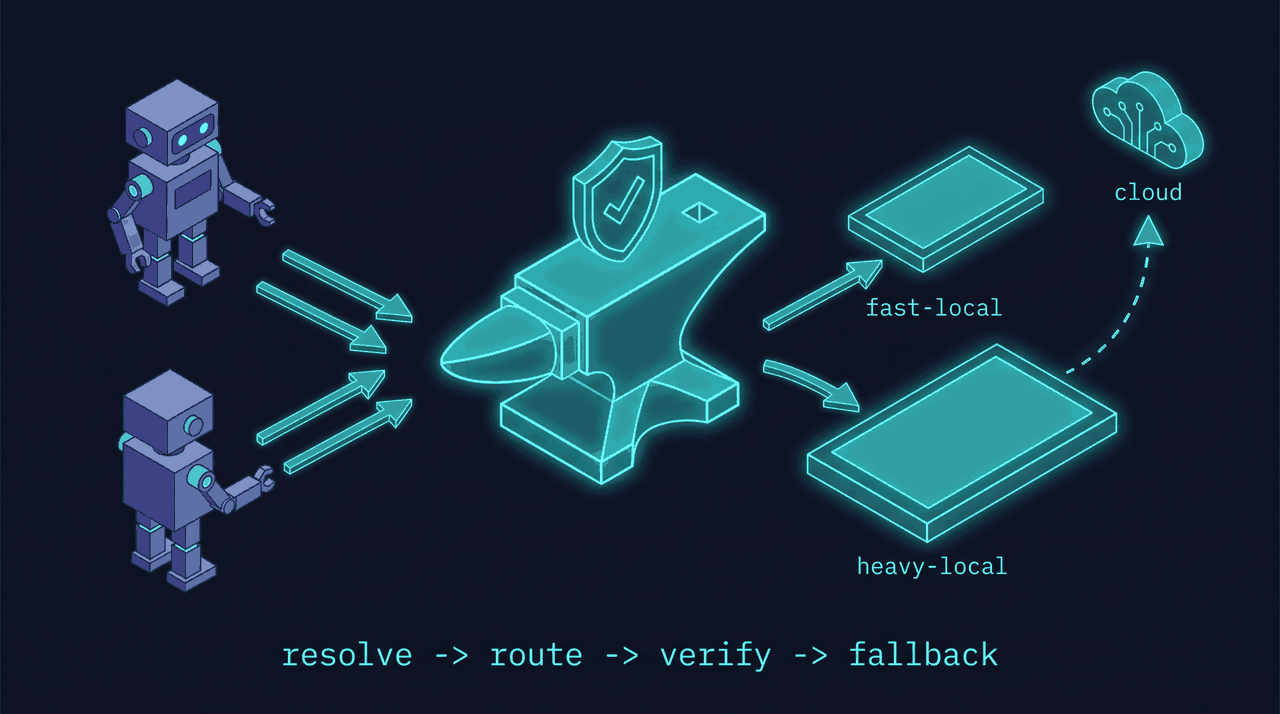
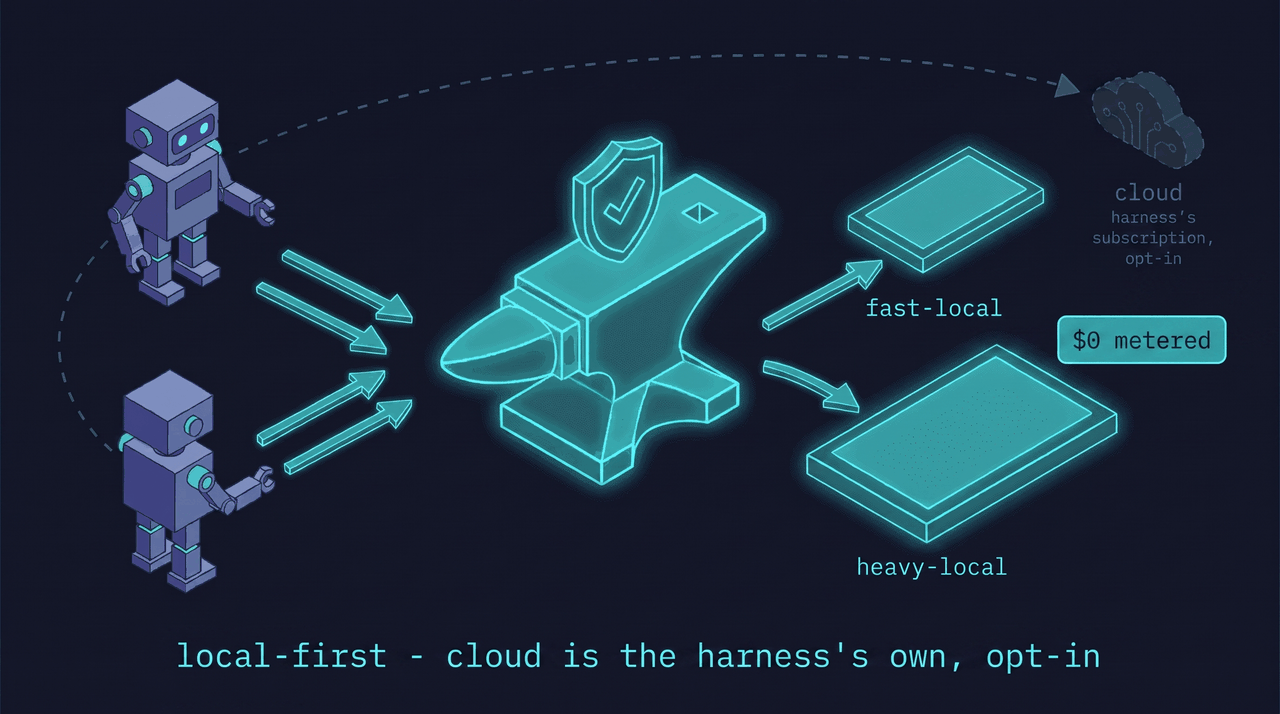
docs(assets): refresh architecture + quality-gate images for advise-and-defer (local-first/$0-metered; cloud opt-in, harness-owned) + fix README captions [advise-and-defer:T012] (#72)

diff --git a/README.md b/README.md
@@ -171,30 +171,32 @@ if `cloud`), 400 (malformed), 503 (no suitable tier).
 
 ### The quality profile (the moat)
 
-![The quality gate — work proven on a tier stays local; unproven work falls back to cloud, measured per (model, work-class)](assets/explainer-quality-gate.png)
+![The quality gate — work proven on a tier stays local ($0 metered); unproven work is deferred to the harness's own opt-in cloud subscription; measured per (model, work-class)](assets/explainer-quality-gate.png)
 
 A table keyed `(model, work-class) → {quality_score, sample_n, last_measured, decision}` where
 `decision ∈ {allow, allow-with-verify, deny}`. Hand-seeded for the MVP; later bootstrapped from
 the shadow-eval harness (the planning eval generalized to arbitrary work-classes), right-sized
-from your real usage via `profile`, and continuously calibrated from sampled production traffic
+from measured usage via `profile`, and continuously calibrated from sampled production traffic
 graded off the hot path. Keyed on a **serve fingerprint** (model + quant + engine + serve flags)
 so a quant/engine swap marks affected rows stale and triggers re-measure.
 
 ### Architecture
 
-![anvil-serving routing pipeline — resolve → route → verify → fallback, across fast-local / heavy-local / cloud tiers](assets/architecture.png)
+![anvil-serving routing pipeline — local-first across fast-local / heavy-local ($0 metered); cloud is the harness's own, opt-in](assets/architecture.png)
 
 ```
           ┌──────────────────── anvil-serving router ───────────────────┐
 harness → │ front door → resolve intent → route → [verify] → return     │ → harness
 (CC/Codex)│  (Anthropic   (preset in        (filter by    │  on fail ↘          │
           │   +OpenAI      model field, else  constraints, │  fall back to       │
-          │   dialects)    infer work-class)  rank by       │  next tier / cloud  │
+          │   dialects)    infer work-class)  rank by       │  next local tier    │
           │                                   quality profile)                   │
           └───────────────────────────────┬──────────────┴────────────────────┘
                                            ▼
-                fast-local :30001   heavy-local :30000   cloud (Anthropic/OpenAI)
-                  (multiplexer-managed)                    (your existing key/sub)
+                fast-local :30001   heavy-local :30000    · cloud is opt-in ·
+                  (multiplexer-managed, free GPU)         on a local miss anvil returns 503;
+                                                          the harness fails over to its OWN
+                                                          cloud subscription (anvil holds no key)
 ```
 
 The core stays **protocol-standard** (Anthropic Messages + OpenAI Chat Completions) with **zero
